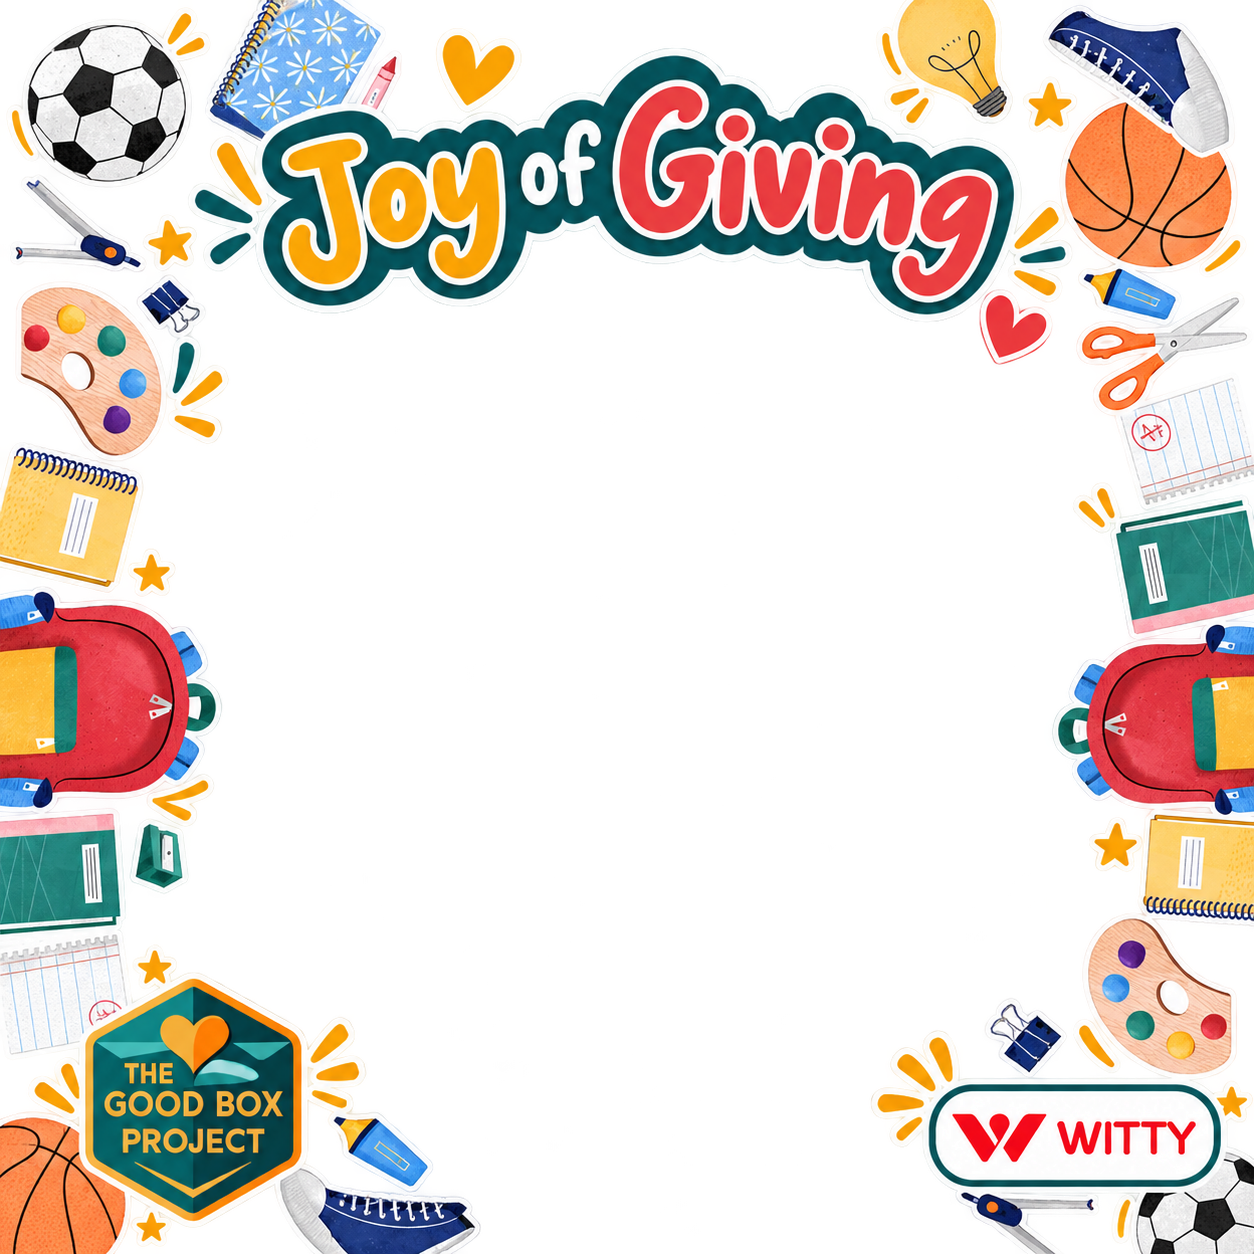
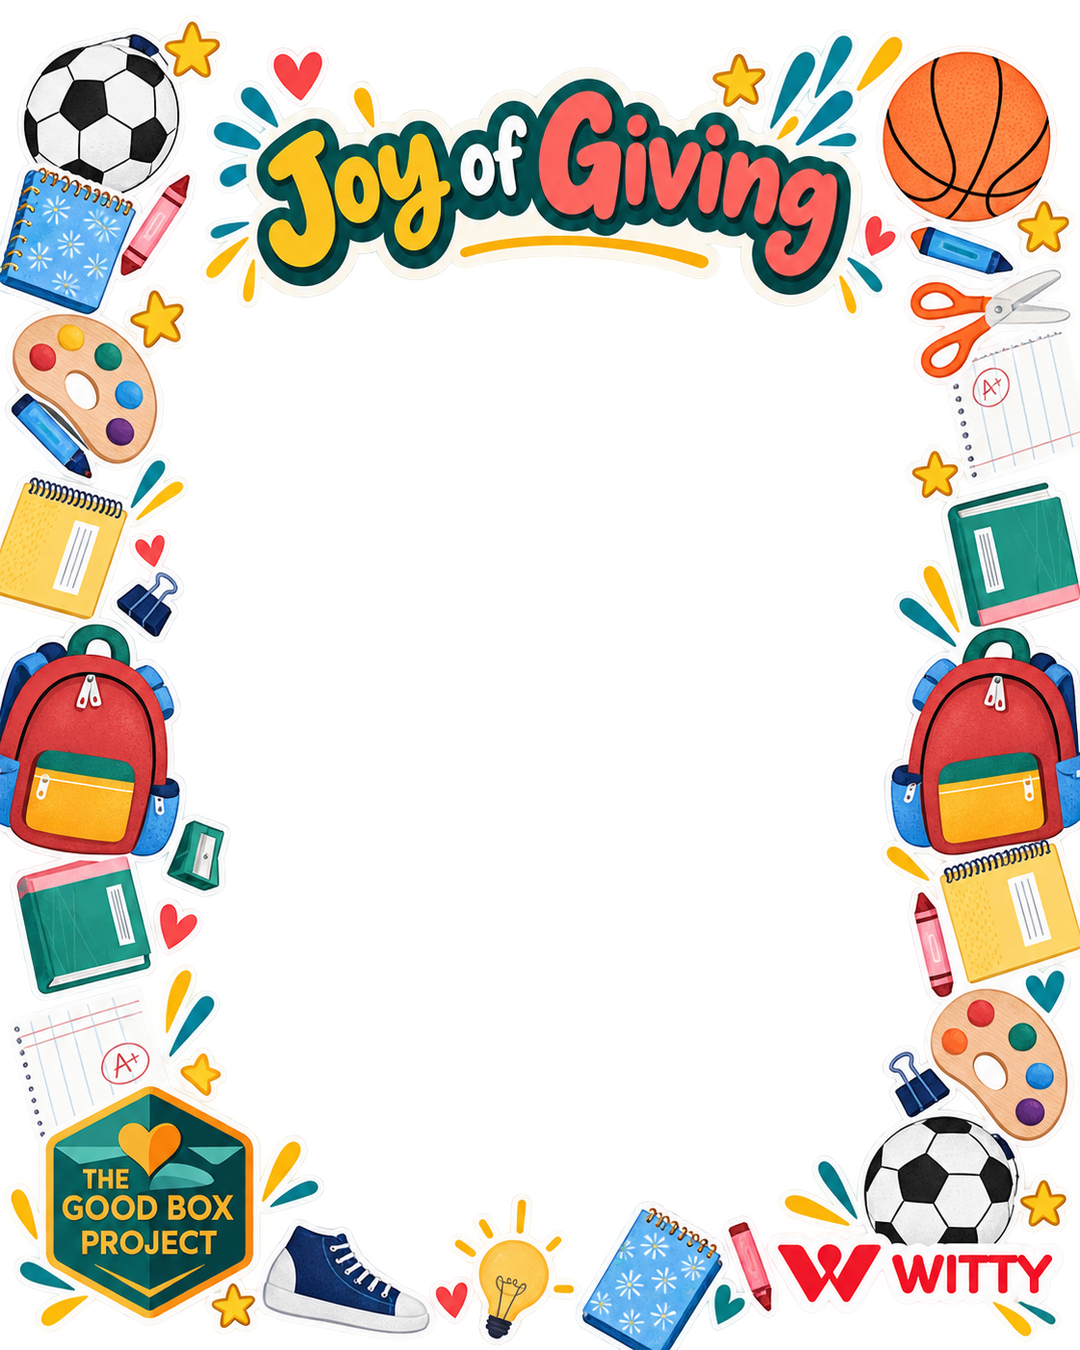
Update event configuration and enhance frame image for "Joy of Giving" photo booth

diff --git a/app/globals.css b/app/globals.css
@@ -41,13 +41,13 @@ h1 em{font-weight:600;color:var(--mint)}
 .camera-header>div,.preview-header>div{display:flex;flex-direction:column;gap:2px}.camera-overline{color:var(--gold);font-size:9px;letter-spacing:.18em;font-weight:700}.camera-header strong,.preview-header strong{font-family:Georgia,serif;font-size:17px;font-weight:400}.header-spark{margin-left:auto;color:var(--gold);font-size:24px}
 .camera-main,.preview-main{min-height:0;flex:1;display:grid;place-items:center;padding:0 12px}
 .viewfinder,.result-photo{display:block;width:auto;max-width:100%;max-height:100%;height:auto;object-fit:contain;box-shadow:0 15px 30px #0018105e}
-.viewfinder{position:relative;overflow:hidden;width:min(100%,calc(100dvh - 225px));background:#163c33}
+.viewfinder{position:relative;overflow:hidden;width:min(100%,calc((100dvh - 225px)*.8));background:#163c33}
 .camera-video,.frame-overlay{position:absolute;inset:0;width:100%;height:100%}.camera-video{object-fit:cover}.camera-video--mirror{transform:scaleX(-1)}.frame-overlay{pointer-events:none;object-fit:fill}
 .view-status{position:absolute;inset:0;background:#0a211e9c;display:flex;flex-direction:column;align-items:center;justify-content:center;gap:13px;color:white;font-size:13px}.spinner{width:23px;height:23px;border:2px solid #ffffff55;border-top-color:white;border-radius:50%;animation:spin .8s linear infinite}@keyframes spin{to{transform:rotate(360deg)}}
 .playback-button{width:auto;min-width:190px;padding:0 20px}
 .camera-controls{flex:none;display:grid;grid-template-columns:1fr 1fr 1fr;align-items:center;justify-items:center;padding:16px 25px 2px}.icon-button{border:0;background:transparent;color:var(--cream);min-width:68px;min-height:63px;display:flex;flex-direction:column;align-items:center;justify-content:center;gap:4px;transition:transform .15s}.icon-button span{font-size:10px;letter-spacing:.08em}.shutter{width:75px;height:75px;border-radius:50%;background:transparent;border:4px solid var(--cream);display:grid;place-items:center;padding:5px;transition:transform .15s}.shutter span{display:block;width:100%;height:100%;border-radius:50%;background:var(--cream)}.camera-hint{text-align:center;margin:0;padding:0 10px 13px;color:#dae9ddbd;font-size:10px;letter-spacing:.08em}
-.preview-main{padding:0 12px}.result-photo{object-fit:contain;max-width:100%;width:min(100%,calc(100dvh - 325px))}.preview-actions{flex:none;padding:10px 24px 13px;display:flex;flex-direction:column;align-items:center;gap:9px}.preview-caption{margin:0 0 3px;font-family:Georgia,serif;font-size:18px}.preview-actions .button{min-height:47px}.preview-actions .button--secondary{min-height:43px}.retake{min-height:30px;text-decoration:underline;text-underline-offset:3px}.fallback-note,.save-note{margin:1px 0;text-align:center;color:var(--mint);font-size:11px;line-height:1.4}
+.preview-main{padding:0 12px}.result-photo{object-fit:contain;max-width:100%;width:min(100%,calc((100dvh - 325px)*.8))}.preview-actions{flex:none;padding:10px 24px 13px;display:flex;flex-direction:column;align-items:center;gap:9px}.preview-caption{margin:0 0 3px;font-family:Georgia,serif;font-size:18px}.preview-actions .button{min-height:47px}.preview-actions .button--secondary{min-height:43px}.retake{min-height:30px;text-decoration:underline;text-underline-offset:3px}.fallback-note,.save-note{margin:1px 0;text-align:center;color:var(--mint);font-size:11px;line-height:1.4}
 .error-screen{align-items:center;text-align:center}.error-icon{margin:auto 0 22px;width:96px;height:96px;border:1px solid var(--gold);border-radius:50%;display:grid;place-items:center;color:var(--gold);font-size:58px;background:#ffffff0b}.error-screen h1{font-size:clamp(39px,10vw,56px)}.error-message{max-width:320px;margin:10px auto 0;color:#e2e9dc;font-size:14px;line-height:1.55}.error-actions{width:100%;display:flex;flex-direction:column;gap:11px;margin:auto 0 10px}.error-screen .privacy{margin-bottom:0}.flash{position:absolute;inset:0;z-index:10;pointer-events:none;background:#fff;animation:flash .22s ease-out forwards}@keyframes flash{0%{opacity:0}30%{opacity:.82}100%{opacity:0}}
-@media(max-height:680px){.intro-art{min-height:140px;margin:12px 0 5px}.intro-art-inner{transform:rotate(-8deg) scale(.72)}.intro-copy h1{font-size:42px}.intro-actions{margin-top:14px}.camera-header,.preview-header{height:58px}.camera-controls{padding-top:9px}.shutter{width:64px;height:64px}.camera-hint{padding-bottom:4px}.preview-actions{gap:5px;padding-top:4px}.preview-actions .button{min-height:42px}.preview-caption{font-size:15px}.viewfinder{width:min(100%,calc(100dvh - 175px))}.result-photo{width:min(100%,calc(100dvh - 260px))}}
+@media(max-height:680px){.intro-art{min-height:140px;margin:12px 0 5px}.intro-art-inner{transform:rotate(-8deg) scale(.72)}.intro-copy h1{font-size:42px}.intro-actions{margin-top:14px}.camera-header,.preview-header{height:58px}.camera-controls{padding-top:9px}.shutter{width:64px;height:64px}.camera-hint{padding-bottom:4px}.preview-actions{gap:5px;padding-top:4px}.preview-actions .button{min-height:42px}.preview-caption{font-size:15px}.viewfinder{width:min(100%,calc((100dvh - 175px)*.8))}.result-photo{width:min(100%,calc((100dvh - 260px)*.8))}}
 @media(min-width:600px){.booth{min-height:min(860px,100dvh);height:min(860px,100dvh);border:1px solid #ffffff1a;border-radius:24px}.intro,.error-screen{min-height:100%}.camera-screen,.preview-screen{height:100%}}
 @media(prefers-reduced-motion:reduce){*,*:before,*:after{animation-duration:.01ms!important;transition-duration:.01ms!important}}

diff --git a/config/event.ts b/config/event.ts
@@ -5,7 +5,7 @@ export const EVENT_CONFIG = {
   shareText: "Sharing my moment from Joy of Giving ❤",
   frames: [{ id: "signature", src: "/frames/joy-of-giving-frame.png", alt: "Joy of Giving event frame" }],
   outputWidth: 1080,
-  outputHeight: 1080,
+  outputHeight: 1350,
   cameraFacingMode: "user" as const,
   mirrorFrontCamera: true,
 };
